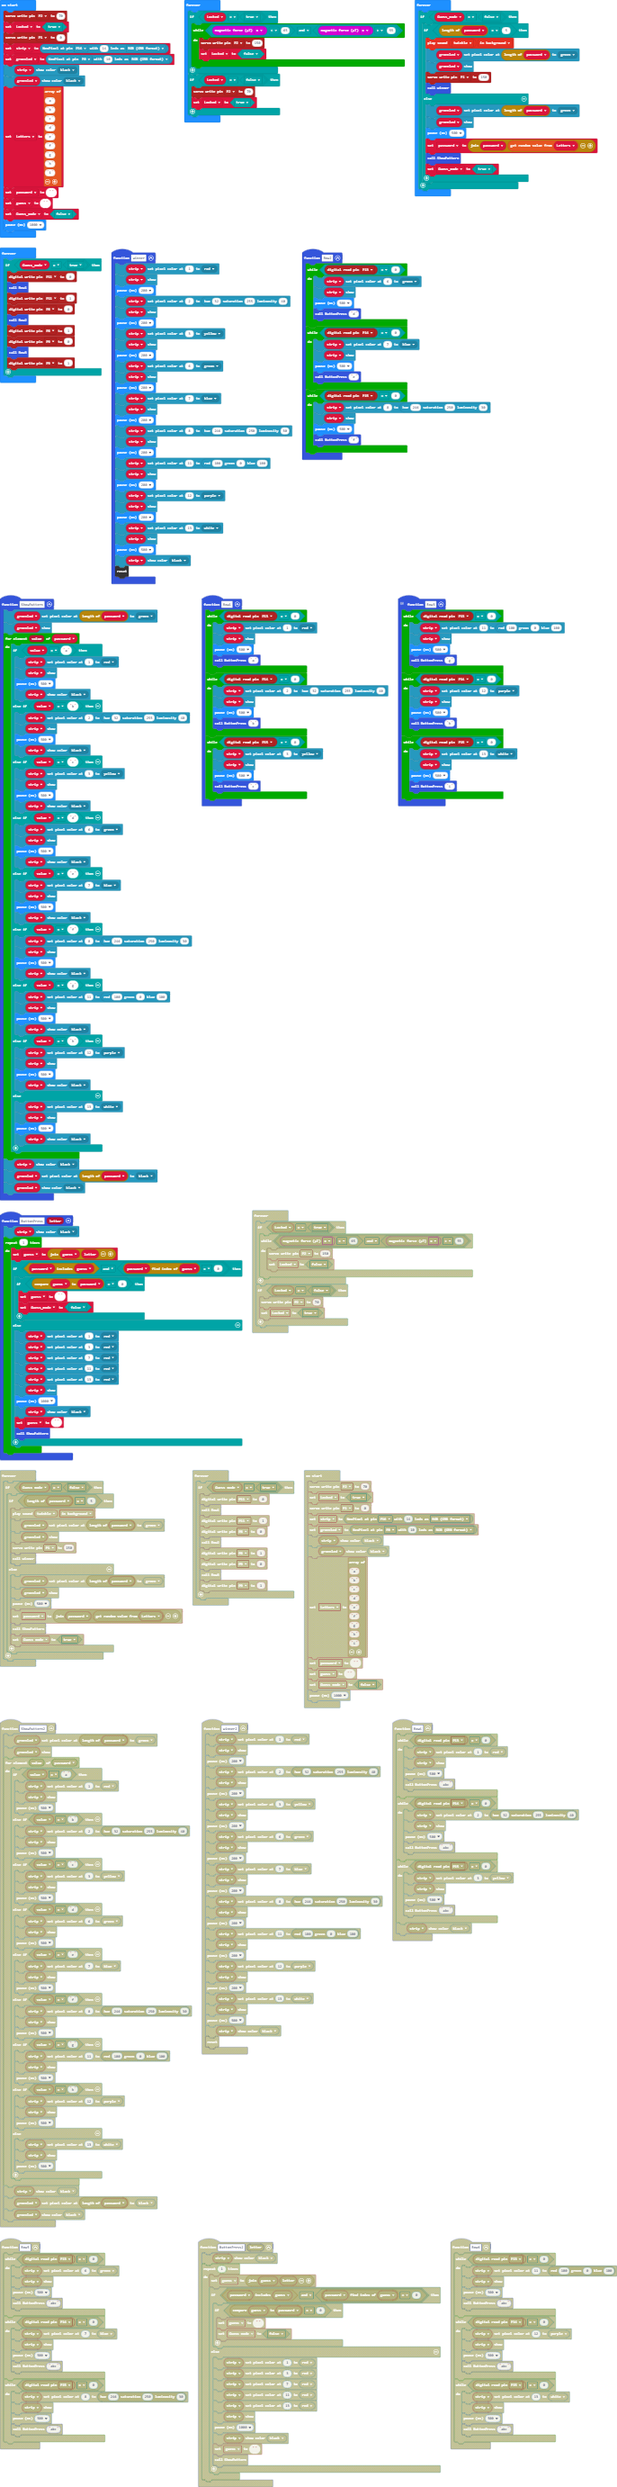
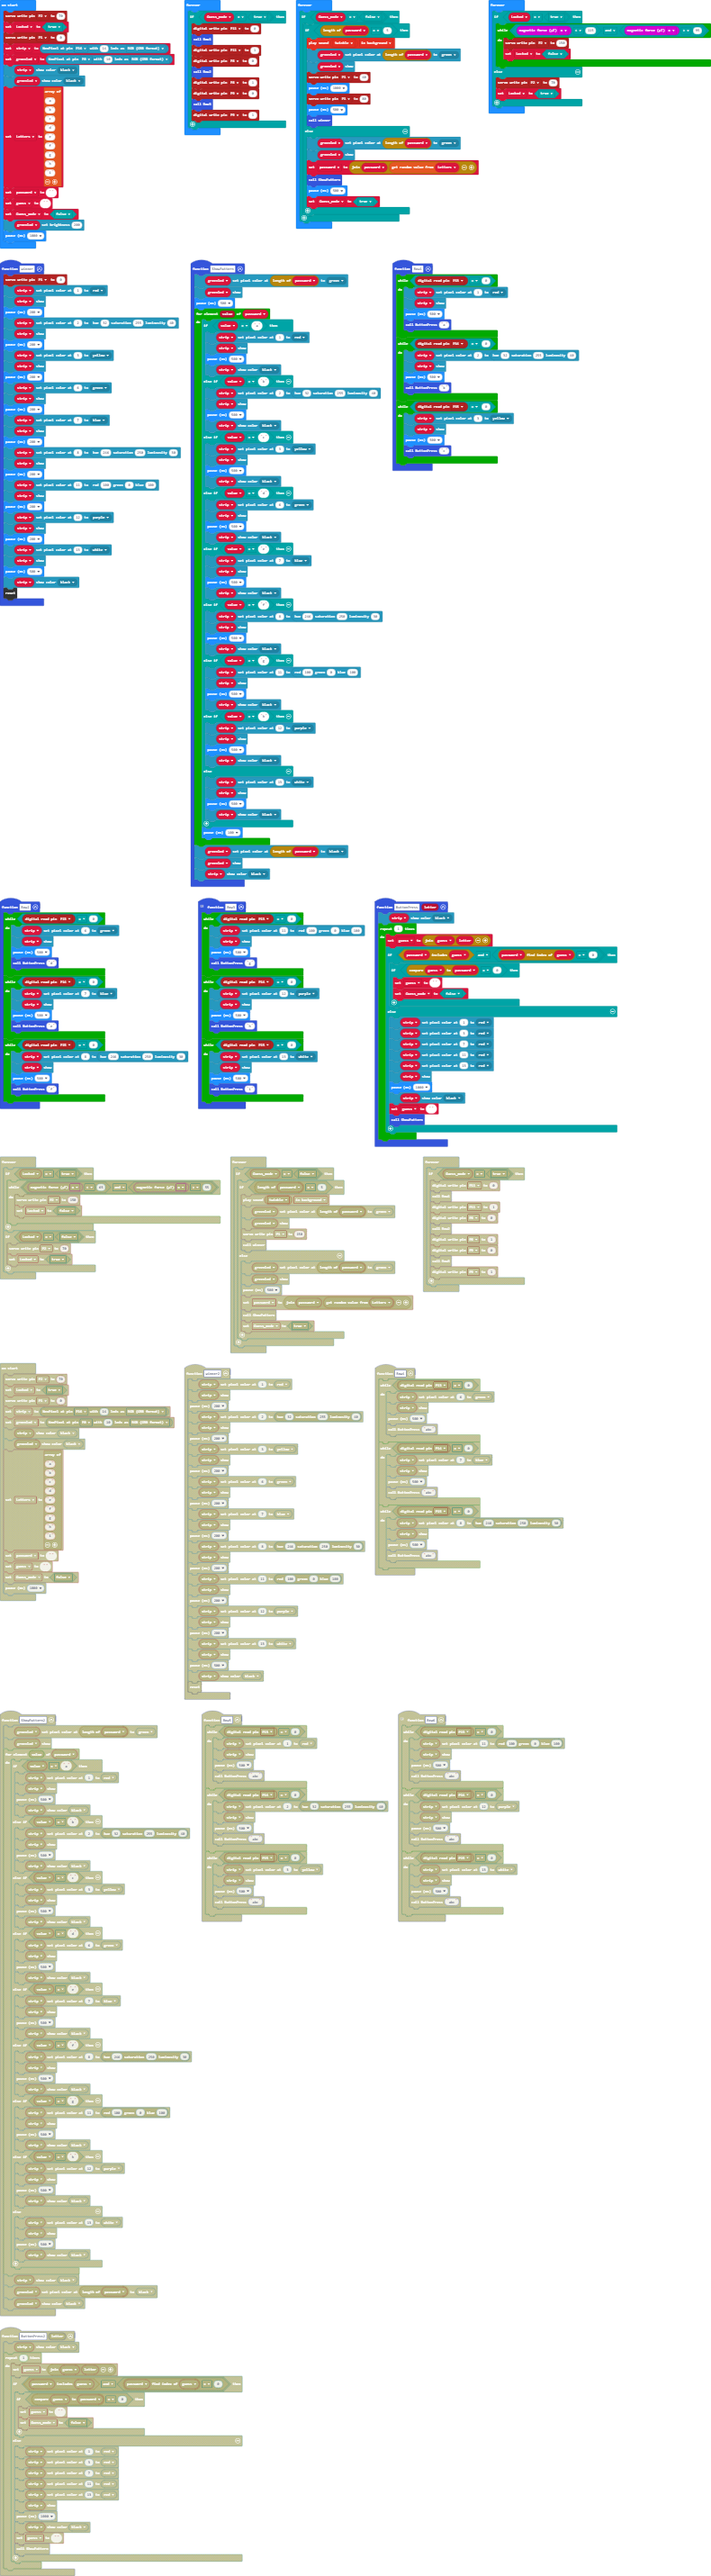
Update pxt.json, main.ts, main.blocks, main.py

diff --git a/main.ts b/main.ts
@@ -4,7 +4,7 @@
 // 
 // Green LEDs: P0 (Active 1-5)
 // 
-// Keypad LEDs: P16 (Active: 1-3 6-8, ,11-13)
+// Keypad LEDs: P16 (Active: 1-3 6-8, 11-13)
 // 
 // Rows 11, 8, 9
 // 
@@ -73,6 +73,7 @@ function Row2 () {
     }
 }
 function winner () {
+    pins.servoWritePin(AnalogPin.P1, 0)
     strip.setPixelColor(1, neopixel.colors(NeoPixelColors.Red))
     strip.show()
     basic.pause(200)
@@ -126,6 +127,7 @@ function Row1 () {
 function ShowPattern () {
     greenled.setPixelColor(password.length, neopixel.colors(NeoPixelColors.Green))
     greenled.show()
+    basic.pause(500)
     for (let value of password) {
         if (value == "a") {
             strip.setPixelColor(1, neopixel.colors(NeoPixelColors.Red))
@@ -173,10 +175,11 @@ function ShowPattern () {
             basic.pause(500)
             strip.showColor(neopixel.colors(NeoPixelColors.Black))
         }
+        basic.pause(100)
     }
-    strip.showColor(neopixel.colors(NeoPixelColors.Black))
     greenled.setPixelColor(password.length, neopixel.colors(NeoPixelColors.Black))
-    greenled.showColor(neopixel.colors(NeoPixelColors.Black))
+    greenled.show()
+    strip.showColor(neopixel.colors(NeoPixelColors.Black))
 }
 let Guess_mode = false
 let guess = ""
@@ -204,37 +207,8 @@ let Letters = [
 password = ""
 guess = ""
 Guess_mode = false
+greenled.setBrightness(200)
 basic.pause(1000)
-basic.forever(function () {
-    if (Locked == true) {
-        while (input.magneticForce(Dimension.X) < 65 && input.magneticForce(Dimension.X) > 55) {
-            pins.servoWritePin(AnalogPin.P2, 150)
-            Locked = false
-        }
-    }
-    if (Locked == false) {
-        pins.servoWritePin(AnalogPin.P2, 70)
-        Locked = true
-    }
-})
-basic.forever(function () {
-    if (Guess_mode == false) {
-        if (password.length == 5) {
-            music.playSoundEffect(music.builtinSoundEffect(soundExpression.twinkle), SoundExpressionPlayMode.InBackground)
-            greenled.setPixelColor(password.length, neopixel.colors(NeoPixelColors.Green))
-            greenled.show()
-            pins.servoWritePin(AnalogPin.P1, 150)
-            winner()
-        } else {
-            greenled.setPixelColor(password.length, neopixel.colors(NeoPixelColors.Green))
-            greenled.show()
-            basic.pause(500)
-            password = "" + password + Letters._pickRandom()
-            ShowPattern()
-            Guess_mode = true
-        }
-    }
-})
 basic.forever(function () {
     if (Guess_mode == true) {
         pins.digitalWritePin(DigitalPin.P11, 0)
@@ -246,5 +220,37 @@ basic.forever(function () {
         pins.digitalWritePin(DigitalPin.P9, 0)
         Row3()
         pins.digitalWritePin(DigitalPin.P9, 1)
+    }
+})
+basic.forever(function () {
+    if (Guess_mode == false) {
+        if (password.length == 5) {
+            music.playSoundEffect(music.builtinSoundEffect(soundExpression.twinkle), SoundExpressionPlayMode.InBackground)
+            greenled.setPixelColor(password.length, neopixel.colors(NeoPixelColors.Green))
+            greenled.show()
+            pins.servoWritePin(AnalogPin.P1, 40)
+            basic.pause(1000)
+            pins.servoWritePin(AnalogPin.P1, 80)
+            basic.pause(500)
+            winner()
+        } else {
+            greenled.setPixelColor(password.length, neopixel.colors(NeoPixelColors.Green))
+            greenled.show()
+            password = "" + password + Letters._pickRandom()
+            ShowPattern()
+            basic.pause(500)
+            Guess_mode = true
+        }
+    }
+})
+basic.forever(function () {
+    if (Locked == true) {
+        while (input.magneticForce(Dimension.X) < 115 && input.magneticForce(Dimension.X) > 95) {
+            pins.servoWritePin(AnalogPin.P2, 150)
+            Locked = false
+        }
+    } else {
+        pins.servoWritePin(AnalogPin.P2, 70)
+        Locked = true
     }
 })

diff --git a/main.py b/main.py
@@ -1,0 +1,221 @@
+# Wheel Servo: P1
+# 
+# Lock Servo: P2
+# 
+# Green LEDs: P0 (Active 1-5)
+# 
+# Keypad LEDs: P16 (Active: 1-3 6-8, 11-13)
+# 
+# Rows 11, 8, 9
+# 
+# Columns: 13, 14, 15
+def Row3():
+    while pins.digital_read_pin(DigitalPin.P13) == 0:
+        strip.set_pixel_color(11, neopixel.rgb(100, 0, 100))
+        strip.show()
+        basic.pause(500)
+        ButtonPress("g")
+    while pins.digital_read_pin(DigitalPin.P14) == 0:
+        strip.set_pixel_color(12, neopixel.colors(NeoPixelColors.PURPLE))
+        strip.show()
+        basic.pause(500)
+        ButtonPress("h")
+    while pins.digital_read_pin(DigitalPin.P15) == 0:
+        strip.set_pixel_color(13, neopixel.colors(NeoPixelColors.WHITE))
+        strip.show()
+        basic.pause(500)
+        ButtonPress("i")
+def ButtonPress(letter: str):
+    global guess, Guess_mode
+    strip.show_color(neopixel.colors(NeoPixelColors.BLACK))
+    for index in range(1):
+        guess = "" + guess + letter
+        if password.includes(guess) and password.index_of(guess) == 0:
+            if guess.compare(password) == 0:
+                guess = ""
+                Guess_mode = False
+        else:
+            strip.set_pixel_color(1, neopixel.colors(NeoPixelColors.RED))
+            strip.set_pixel_color(3, neopixel.colors(NeoPixelColors.RED))
+            strip.set_pixel_color(7, neopixel.colors(NeoPixelColors.RED))
+            strip.set_pixel_color(11, neopixel.colors(NeoPixelColors.RED))
+            strip.set_pixel_color(13, neopixel.colors(NeoPixelColors.RED))
+            strip.show()
+            basic.pause(1000)
+            strip.show_color(neopixel.colors(NeoPixelColors.BLACK))
+            guess = ""
+            ShowPattern()
+def Row2():
+    while pins.digital_read_pin(DigitalPin.P13) == 0:
+        strip.set_pixel_color(6, neopixel.colors(NeoPixelColors.GREEN))
+        strip.show()
+        basic.pause(500)
+        ButtonPress("d")
+    while pins.digital_read_pin(DigitalPin.P14) == 0:
+        strip.set_pixel_color(7, neopixel.colors(NeoPixelColors.BLUE))
+        strip.show()
+        basic.pause(500)
+        ButtonPress("e")
+    while pins.digital_read_pin(DigitalPin.P15) == 0:
+        strip.set_pixel_color(8, neopixel.hsl(246, 250, 30))
+        strip.show()
+        basic.pause(500)
+        ButtonPress("f")
+def winner():
+    strip.set_pixel_color(1, neopixel.colors(NeoPixelColors.RED))
+    strip.show()
+    basic.pause(200)
+    strip.set_pixel_color(2, neopixel.hsl(32, 255, 40))
+    strip.show()
+    basic.pause(200)
+    strip.set_pixel_color(3, neopixel.colors(NeoPixelColors.YELLOW))
+    strip.show()
+    basic.pause(200)
+    strip.set_pixel_color(6, neopixel.colors(NeoPixelColors.GREEN))
+    strip.show()
+    basic.pause(200)
+    strip.set_pixel_color(7, neopixel.colors(NeoPixelColors.BLUE))
+    strip.show()
+    basic.pause(200)
+    strip.set_pixel_color(8, neopixel.hsl(246, 250, 30))
+    strip.show()
+    basic.pause(200)
+    strip.set_pixel_color(11, neopixel.rgb(100, 0, 100))
+    strip.show()
+    basic.pause(200)
+    strip.set_pixel_color(12, neopixel.colors(NeoPixelColors.PURPLE))
+    strip.show()
+    basic.pause(200)
+    strip.set_pixel_color(13, neopixel.colors(NeoPixelColors.WHITE))
+    strip.show()
+    basic.pause(500)
+    strip.show_color(neopixel.colors(NeoPixelColors.BLACK))
+    control.reset()
+def Row1():
+    while pins.digital_read_pin(DigitalPin.P13) == 0:
+        strip.set_pixel_color(1, neopixel.colors(NeoPixelColors.RED))
+        strip.show()
+        basic.pause(500)
+        ButtonPress("a")
+    while pins.digital_read_pin(DigitalPin.P14) == 0:
+        strip.set_pixel_color(2, neopixel.hsl(32, 255, 40))
+        strip.show()
+        basic.pause(500)
+        ButtonPress("b")
+    while pins.digital_read_pin(DigitalPin.P15) == 0:
+        strip.set_pixel_color(3, neopixel.colors(NeoPixelColors.YELLOW))
+        strip.show()
+        basic.pause(500)
+        ButtonPress("c")
+def ShowPattern():
+    greenled.set_pixel_color(len(password), neopixel.colors(NeoPixelColors.GREEN))
+    greenled.show()
+    for value in password:
+        if value == "a":
+            strip.set_pixel_color(1, neopixel.colors(NeoPixelColors.RED))
+            strip.show()
+            basic.pause(500)
+            strip.show_color(neopixel.colors(NeoPixelColors.BLACK))
+        elif value == "b":
+            strip.set_pixel_color(2, neopixel.hsl(32, 255, 40))
+            strip.show()
+            basic.pause(500)
+            strip.show_color(neopixel.colors(NeoPixelColors.BLACK))
+        elif value == "c":
+            strip.set_pixel_color(3, neopixel.colors(NeoPixelColors.YELLOW))
+            strip.show()
+            basic.pause(500)
+            strip.show_color(neopixel.colors(NeoPixelColors.BLACK))
+        elif value == "d":
+            strip.set_pixel_color(6, neopixel.colors(NeoPixelColors.GREEN))
+            strip.show()
+            basic.pause(500)
+            strip.show_color(neopixel.colors(NeoPixelColors.BLACK))
+        elif value == "e":
+            strip.set_pixel_color(7, neopixel.colors(NeoPixelColors.BLUE))
+            strip.show()
+            basic.pause(500)
+            strip.show_color(neopixel.colors(NeoPixelColors.BLACK))
+        elif value == "f":
+            strip.set_pixel_color(8, neopixel.hsl(246, 250, 30))
+            strip.show()
+            basic.pause(500)
+            strip.show_color(neopixel.colors(NeoPixelColors.BLACK))
+        elif value == "g":
+            strip.set_pixel_color(11, neopixel.rgb(100, 0, 100))
+            strip.show()
+            basic.pause(500)
+            strip.show_color(neopixel.colors(NeoPixelColors.BLACK))
+        elif value == "h":
+            strip.set_pixel_color(12, neopixel.colors(NeoPixelColors.PURPLE))
+            strip.show()
+            basic.pause(500)
+            strip.show_color(neopixel.colors(NeoPixelColors.BLACK))
+        else:
+            strip.set_pixel_color(13, neopixel.colors(NeoPixelColors.WHITE))
+            strip.show()
+            basic.pause(500)
+            strip.show_color(neopixel.colors(NeoPixelColors.BLACK))
+    strip.show_color(neopixel.colors(NeoPixelColors.BLACK))
+    greenled.set_pixel_color(len(password), neopixel.colors(NeoPixelColors.BLACK))
+    greenled.show_color(neopixel.colors(NeoPixelColors.BLACK))
+Guess_mode = False
+guess = ""
+password = ""
+greenled: neopixel.Strip = None
+strip: neopixel.Strip = None
+pins.servo_write_pin(AnalogPin.P2, 70)
+Locked = True
+pins.servo_write_pin(AnalogPin.P1, 0)
+strip = neopixel.create(DigitalPin.P16, 14, NeoPixelMode.RGB)
+greenled = neopixel.create(DigitalPin.P0, 10, NeoPixelMode.RGB)
+strip.show_color(neopixel.colors(NeoPixelColors.BLACK))
+greenled.show_color(neopixel.colors(NeoPixelColors.BLACK))
+Letters = ["a", "b", "c", "d", "e", "f", "g", "h", "i"]
+password = ""
+guess = ""
+Guess_mode = False
+basic.pause(1000)
+
+def on_forever():
+    if Guess_mode == True:
+        pins.digital_write_pin(DigitalPin.P11, 0)
+        Row1()
+        pins.digital_write_pin(DigitalPin.P11, 1)
+        pins.digital_write_pin(DigitalPin.P8, 0)
+        Row2()
+        pins.digital_write_pin(DigitalPin.P8, 1)
+        pins.digital_write_pin(DigitalPin.P9, 0)
+        Row3()
+        pins.digital_write_pin(DigitalPin.P9, 1)
+basic.forever(on_forever)
+
+def on_forever2():
+    global password, Guess_mode
+    if Guess_mode == False:
+        if len(password) == 5:
+            music.play_sound_effect(music.builtin_sound_effect(soundExpression.twinkle),
+                SoundExpressionPlayMode.IN_BACKGROUND)
+            greenled.set_pixel_color(len(password), neopixel.colors(NeoPixelColors.GREEN))
+            greenled.show()
+            pins.servo_write_pin(AnalogPin.P1, 150)
+            winner()
+        else:
+            greenled.set_pixel_color(len(password), neopixel.colors(NeoPixelColors.GREEN))
+            greenled.show()
+            basic.pause(500)
+            password = "" + password + Letters._pick_random()
+            ShowPattern()
+            Guess_mode = True
+basic.forever(on_forever2)
+
+def on_forever3():
+    global Locked
+    if Locked == True:
+        while input.magnetic_force(Dimension.X) < 115 and input.magnetic_force(Dimension.X) > 95:
+            pins.servo_write_pin(AnalogPin.P2, 150)
+            Locked = False
+    else:
+        pins.servo_write_pin(AnalogPin.P2, 70)
+        Locked = True
+basic.forever(on_forever3)
